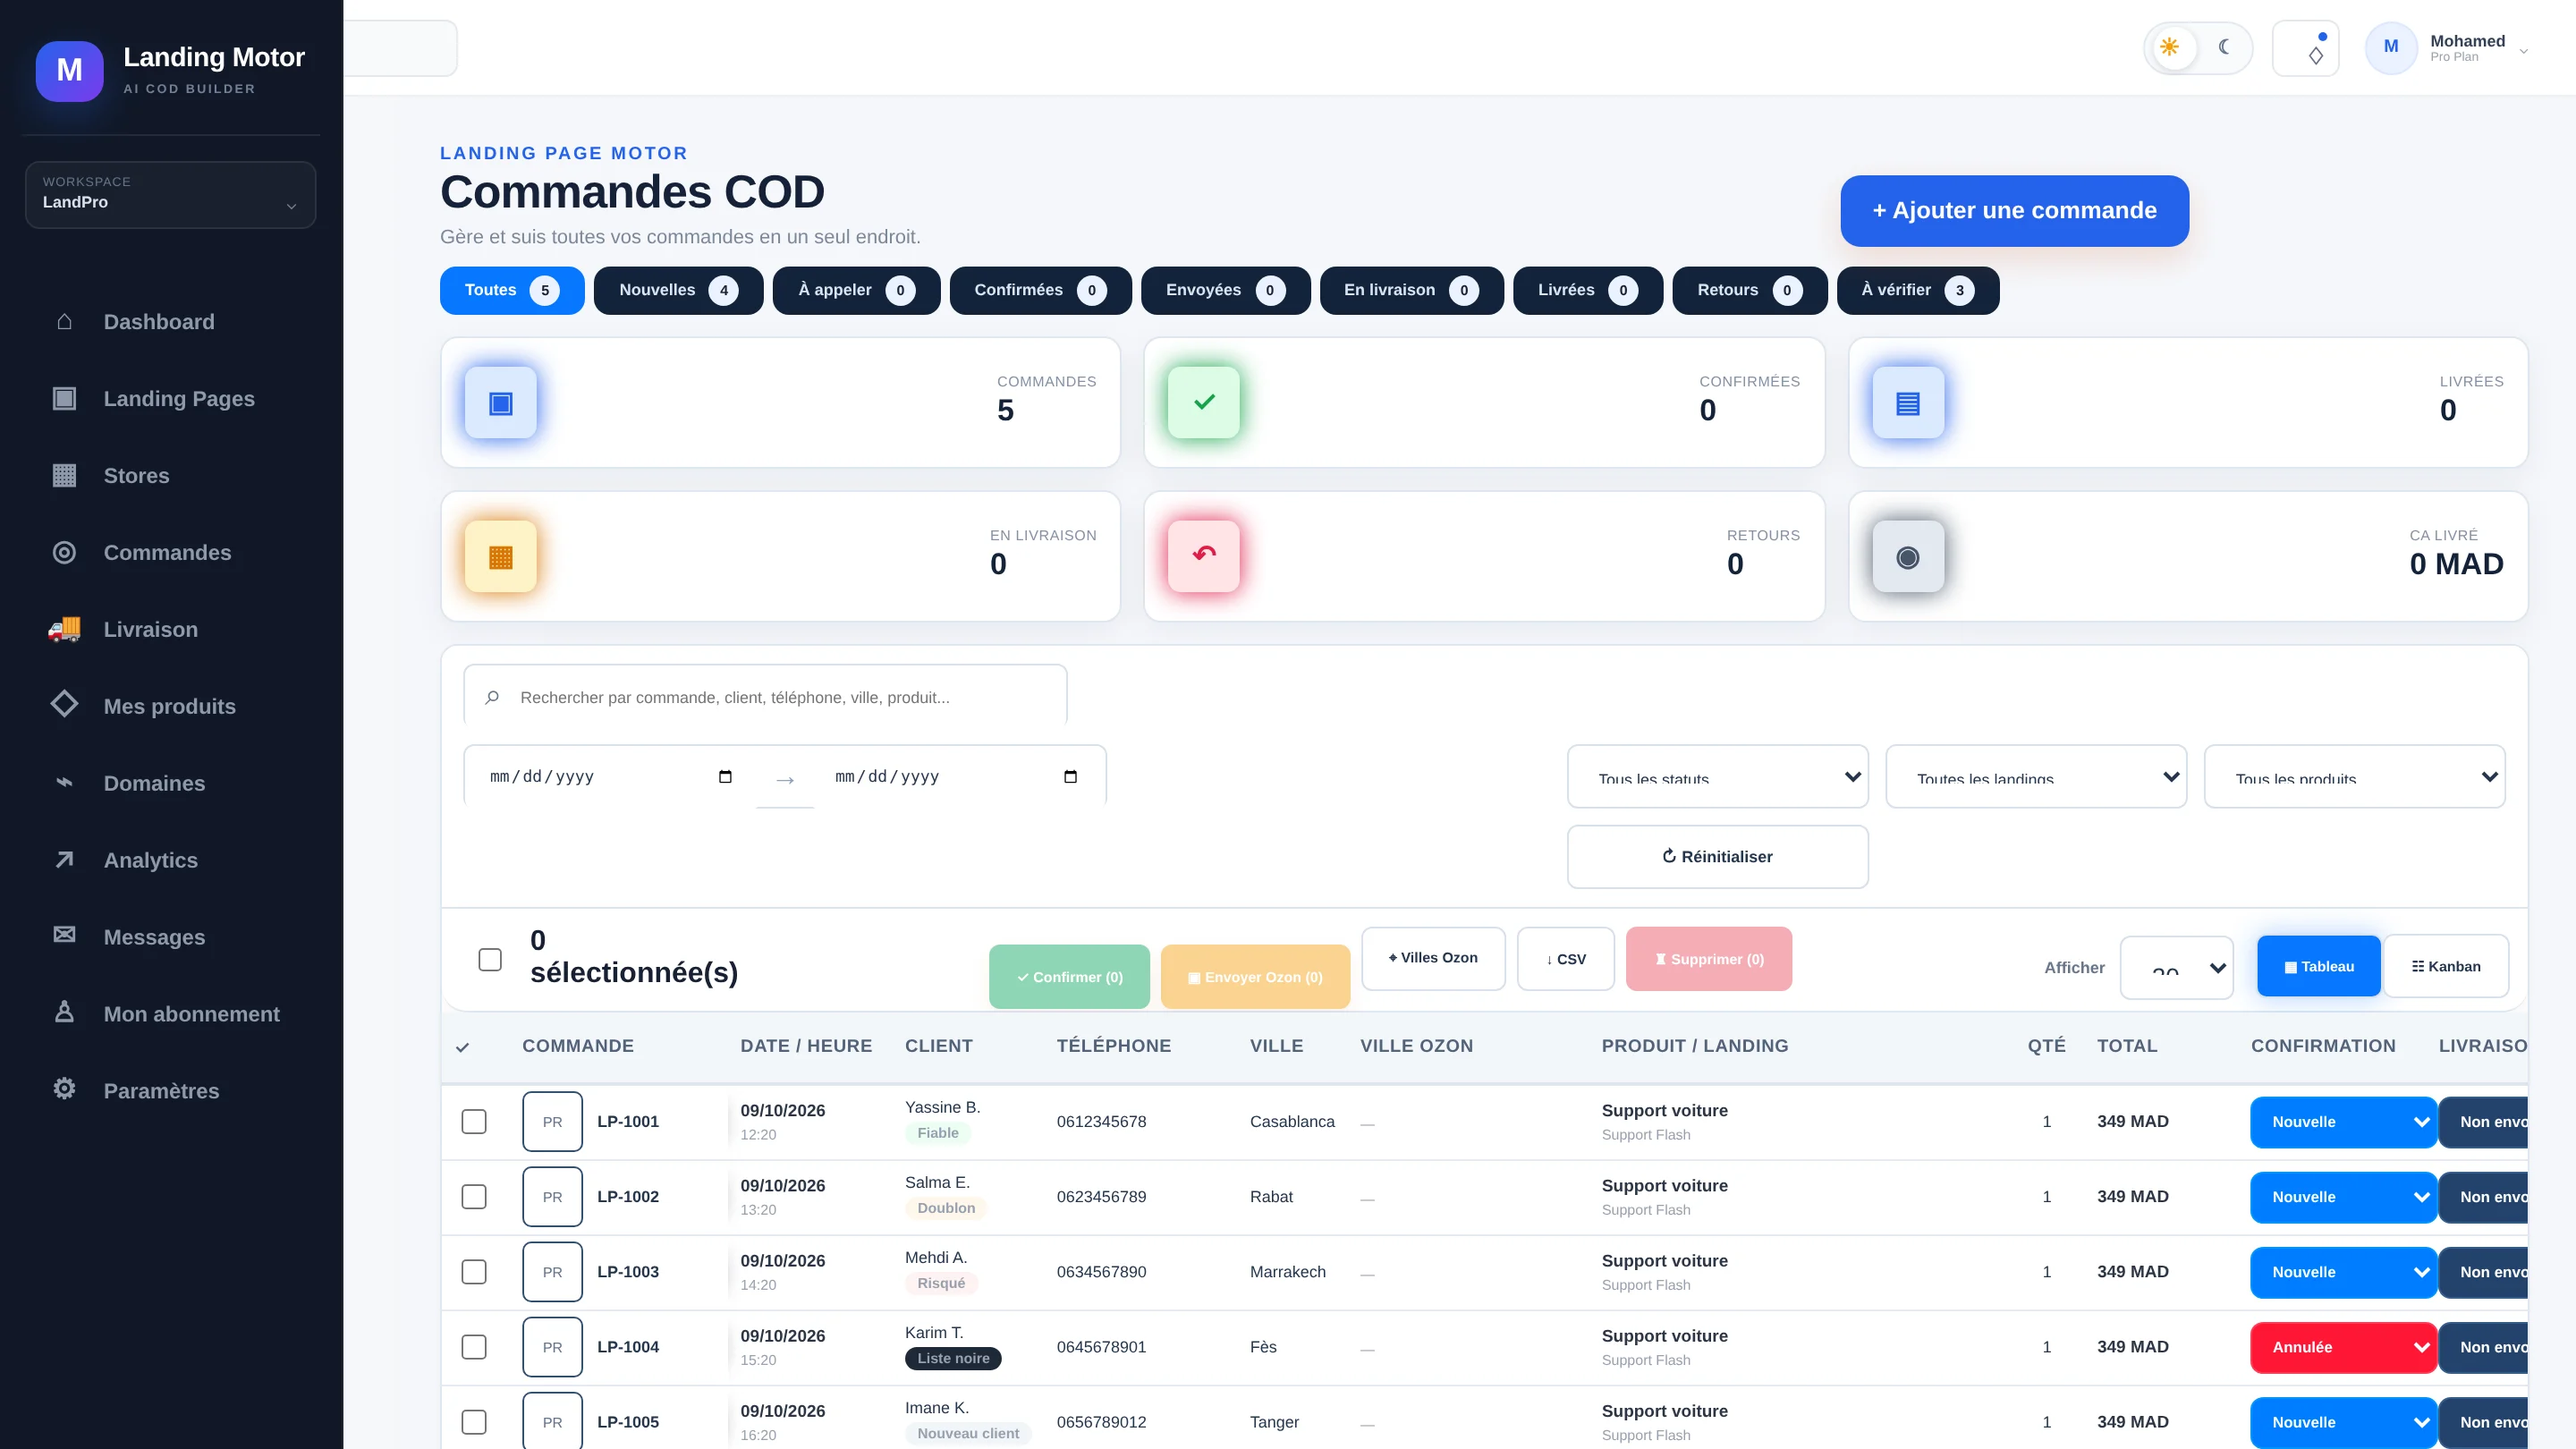
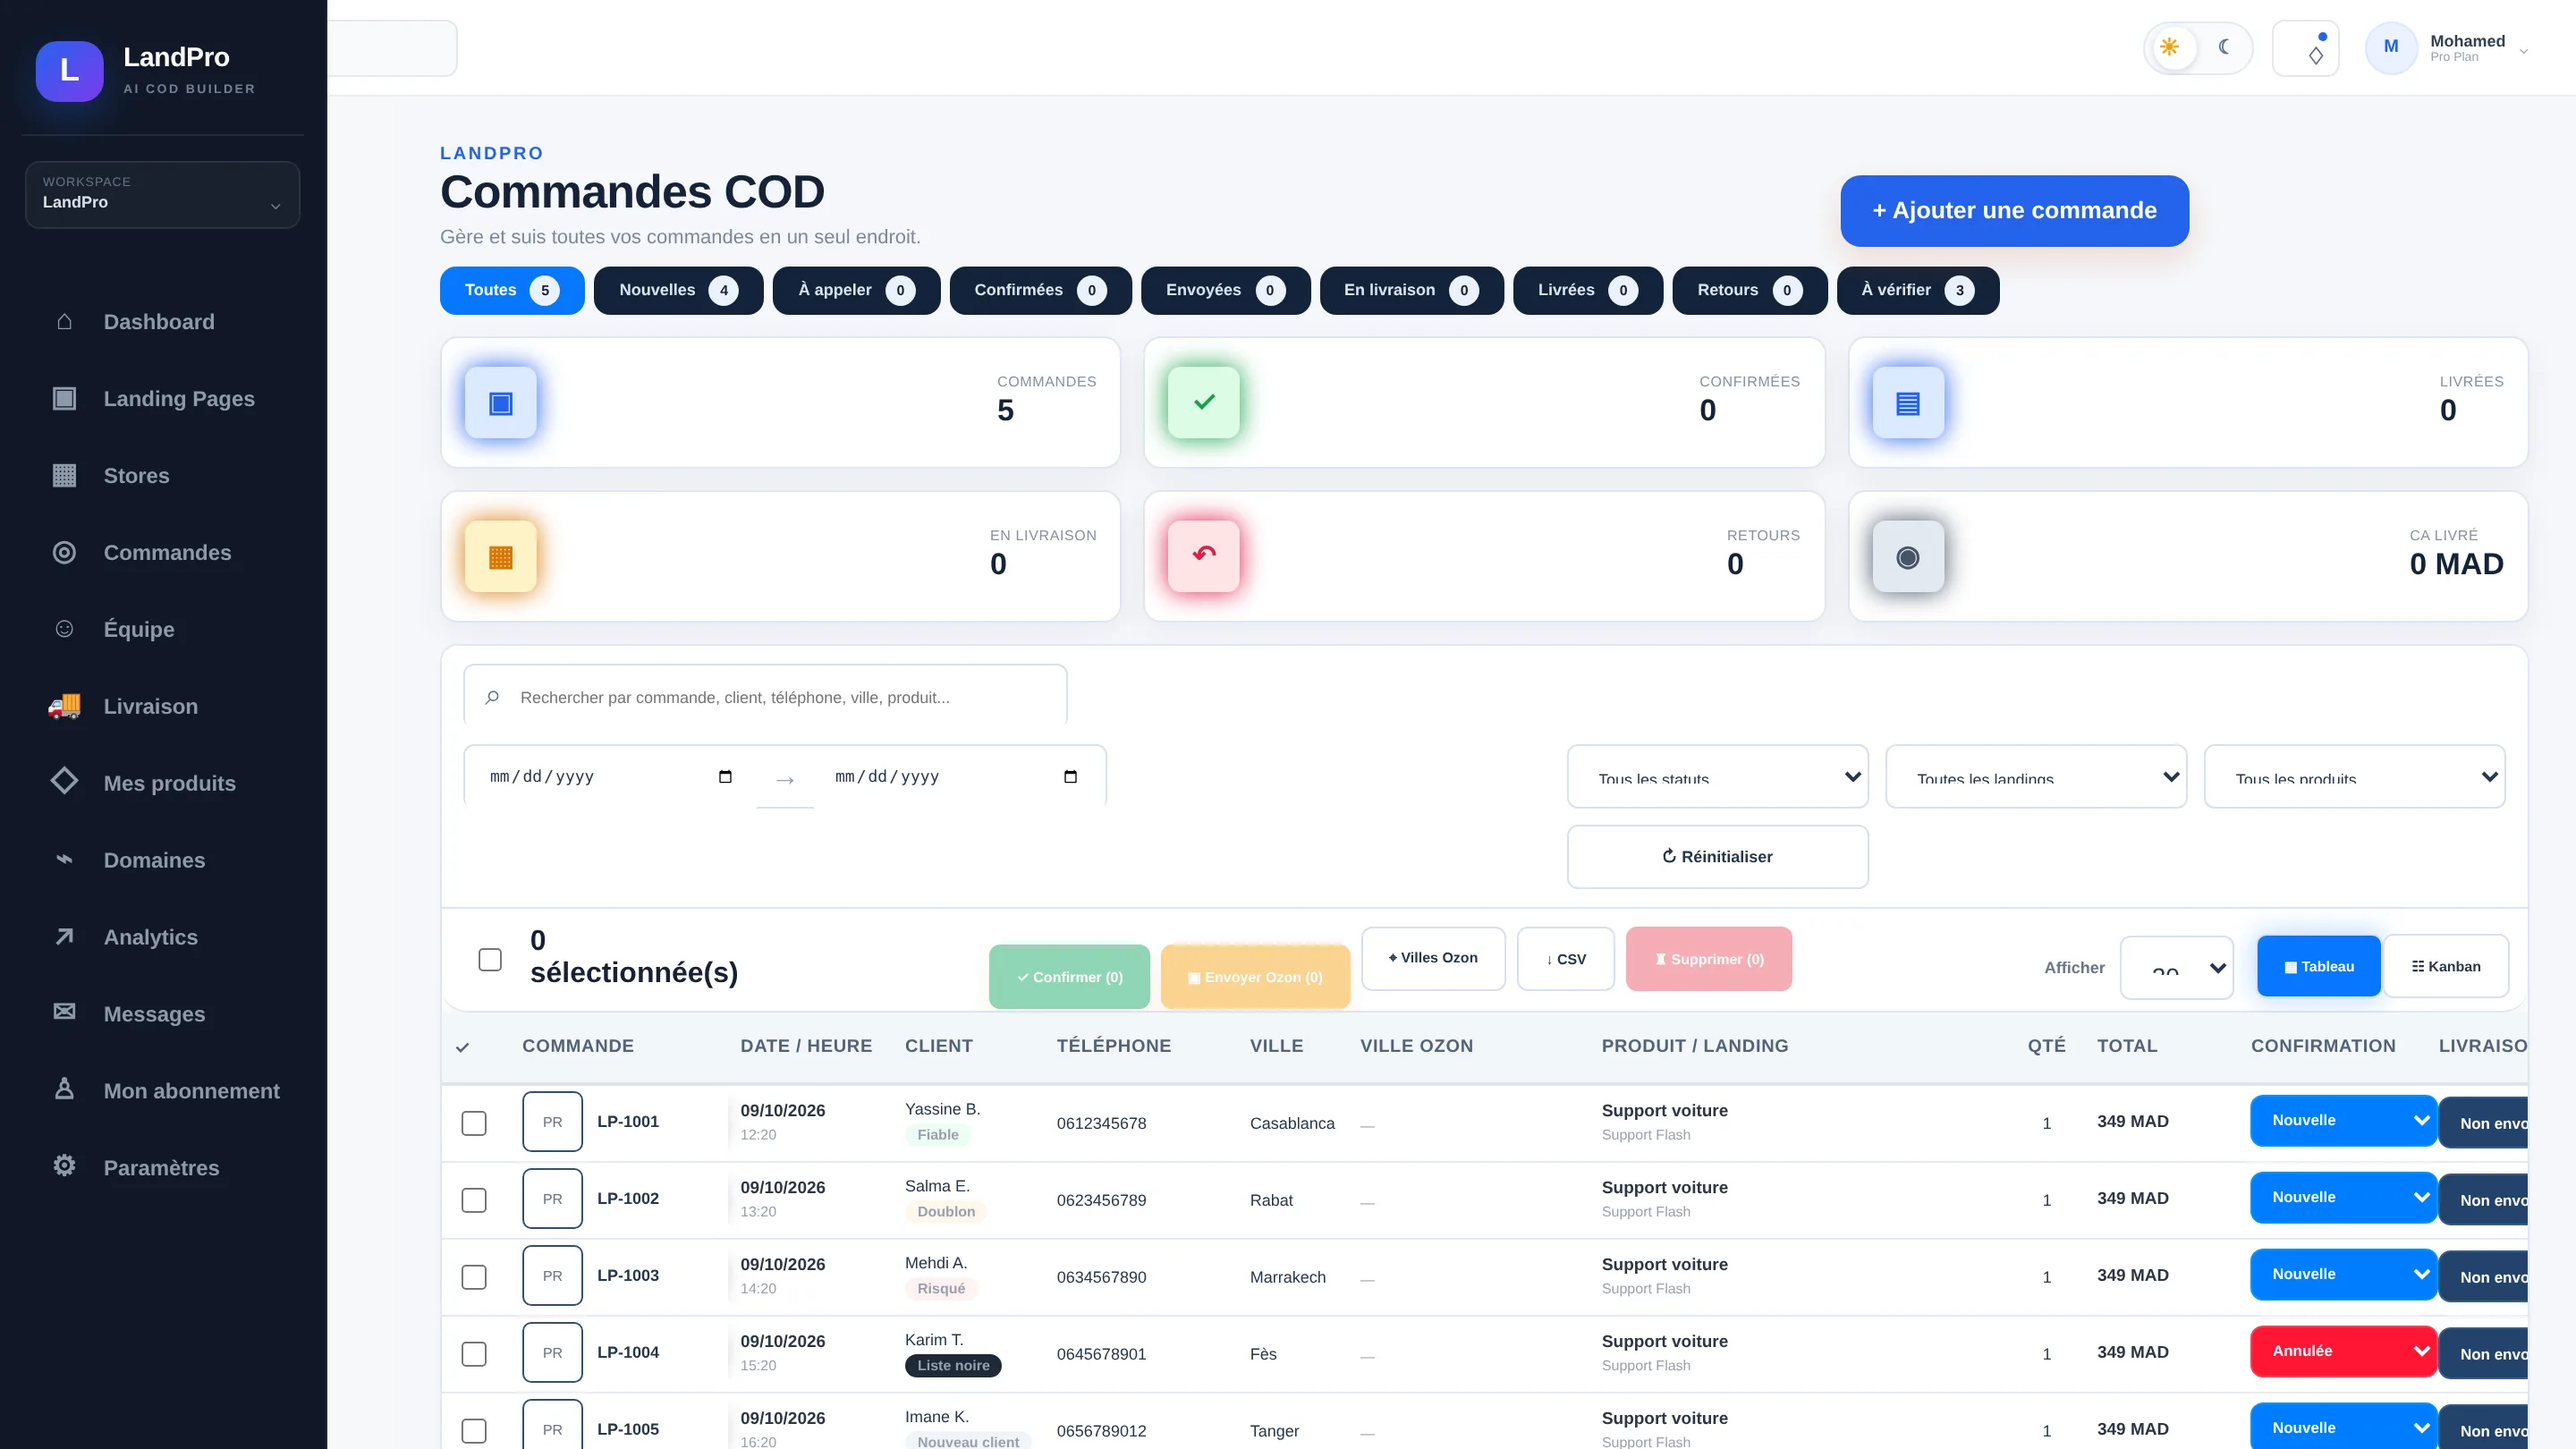
Renomme Landing Motor en LandPro dans le tableau de bord
Nouvelles captures pour le site de présentation, et en-tête des commandes
qui ne se décale plus pour un agent (sans bouton « Ajouter »).

Claude-Session: https://claude.ai/code/session_01NtPHw8vyLMkhDdJbaSh33e

diff --git a/app/orders/page.tsx b/app/orders/page.tsx
@@ -401,7 +401,7 @@ export default function Orders() {
         JSON.stringify(x.parcel, null, 2) +
         "\n\nStatut détecté : " +
         (x.ozon_status || "AUCUN") +
-        "\nStatut Landing Motor : " +
+        "\nStatut LandPro : " +
         (x.shipment_status || "PENDING"),
     );
   }
@@ -708,15 +708,18 @@ export default function Orders() {
       <section className="dash-content orders-dashboard">
         <header className="dash-header orders-page-head">
           <div>
-            <span className="eyebrow">LANDING PAGE MOTOR</span>
+            <span className="eyebrow">LANDPRO</span>
             <h1>{isAgent ? "Mes commandes à confirmer" : "Commandes COD"}</h1>
             <p>Gère et suis toutes vos commandes en un seul endroit.</p>
           </div>
-          {ownerUI && (
-            <button className="primary orders-add-btn orders-add-btn-v2" onClick={() => setManualOpen(true)}>
-              + Ajouter une commande
-            </button>
-          )}
+          {/* Emplacement toujours présent : sans lui, l'en-tête se décale pour un agent */}
+          <div className="orders-page-head-actions">
+            {ownerUI && (
+              <button className="primary orders-add-btn orders-add-btn-v2" onClick={() => setManualOpen(true)}>
+                + Ajouter une commande
+              </button>
+            )}
+          </div>
         </header>
         <div className="orders-status-tabs">
           <button className={quickFilter === "ALL" ? "active" : ""} onClick={() => setQuickFilter("ALL")}>

diff --git a/app/layout.tsx b/app/layout.tsx
@@ -1,7 +1,7 @@
 // Layout racine : aucun CSS global ici. Le tableau de bord charge globals.css via
 // ses propres layouts ; les landing pages chargent les styles des templates LandPro
 // et les boutiques store-public.css (généré, beaucoup plus léger).
-export const metadata = { title: "Landing Page Motor", description: "Générateur de landing pages COD" };
+export const metadata = { title: "LandPro", description: "Générateur de landing pages COD" };
 
 // Mode sombre du tableau de bord appliqué avant l'affichage, sur toutes les pages du
 // tableau de bord (éditeurs compris), jamais sur les boutiques et landing pages publiques.

diff --git a/app/signup/page.tsx b/app/signup/page.tsx
@@ -81,7 +81,7 @@ export default function Signup() {
           M
         </div>
         <h1 style={{ margin: "0 0 8px", fontSize: 28 }}>Créer un compte</h1>
-        <p style={{ margin: "0 0 26px", color: "#94a3b8" }}>Inscris-toi pour accéder à Landing Page Motor.</p>
+        <p style={{ margin: "0 0 26px", color: "#94a3b8" }}>Inscris-toi pour accéder à LandPro.</p>
         <label style={{ display: "block", fontSize: 13, marginBottom: 7 }}>Email</label>
         <input
           type="email"

diff --git a/app/login/page.tsx b/app/login/page.tsx
@@ -69,7 +69,7 @@ export default function Login() {
         >
           M
         </div>
-        <h1 style={{ margin: "0 0 8px", fontSize: 28 }}>Landing Page Motor</h1>
+        <h1 style={{ margin: "0 0 8px", fontSize: 28 }}>LandPro</h1>
         <p style={{ margin: "0 0 26px", color: "#94a3b8" }}>Connexion sécurisée à ton espace d'administration.</p>
         <label style={{ display: "block", fontSize: 13, marginBottom: 7 }}>Email</label>
         <input

diff --git a/app/delivery/page.tsx b/app/delivery/page.tsx
@@ -84,7 +84,7 @@ export default function Delivery() {
       <section className="dash-content delivery-dashboard">
         <header className="dash-header">
           <div>
-            <span className="eyebrow">LANDING PAGE MOTOR</span>
+            <span className="eyebrow">LANDPRO</span>
             <h1>Intégrations livraison COD</h1>
             <p>Choisis les sociétés de livraison que tu utilises au Maroc.</p>
           </div>

diff --git a/app/admin/users/page.tsx b/app/admin/users/page.tsx
@@ -26,9 +26,9 @@ export default function AdminUsers() {
     <main className="dash-shell">
       <aside className="dash-side">
         <div className="dash-brand">
-          <div className="brand-mark">M</div>
+          <div className="brand-mark">L</div>
           <div>
-            <b>Landing Motor</b>
+            <b>LandPro</b>
             <small>ADMIN</small>
           </div>
         </div>

diff --git a/app/settings/page.tsx b/app/settings/page.tsx
@@ -83,7 +83,7 @@ export default function Settings() {
           <div>
             <span className="eyebrow">CONFIGURATION</span>
             <h1>Paramètres</h1>
-            <p>Configure les valeurs par défaut de Landing Page Motor.</p>
+            <p>Configure les valeurs par défaut de LandPro.</p>
           </div>
         </header>
         <form className="settings-grid" onSubmit={save}>

diff --git a/app/components/SaaSSidebar.tsx b/app/components/SaaSSidebar.tsx
@@ -62,9 +62,9 @@ export default function SaaSSidebar() {
   return (
     <aside className="dash-side">
       <div className="dash-brand">
-        <div className="brand-mark">M</div>
+        <div className="brand-mark">L</div>
         <div>
-          <b>Landing Motor</b>
+          <b>LandPro</b>
           <small>AI COD BUILDER</small>
         </div>
       </div>

diff --git a/app/api/settings/route.ts b/app/api/settings/route.ts
@@ -41,7 +41,7 @@ async function PATCHHandler(req: Request) {
     const { error: we } = await s
       .from("workspaces")
       .update({
-        name: b.name || "Landing Motor",
+        name: b.name || "LandPro",
         default_country: "MA",
         default_currency: "MAD",
         default_locale: b.locale || "ar-MA",
